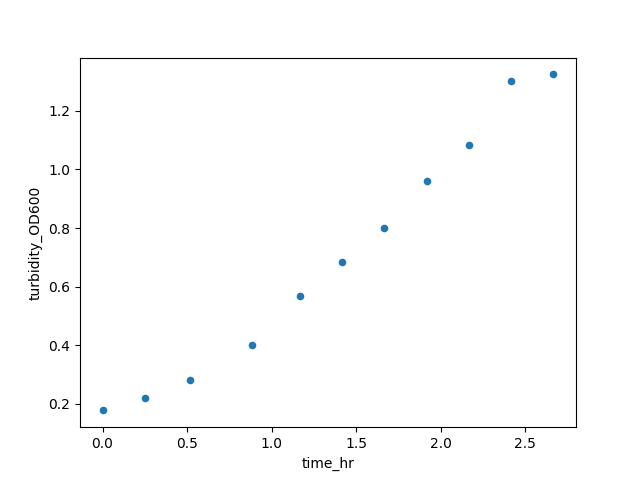
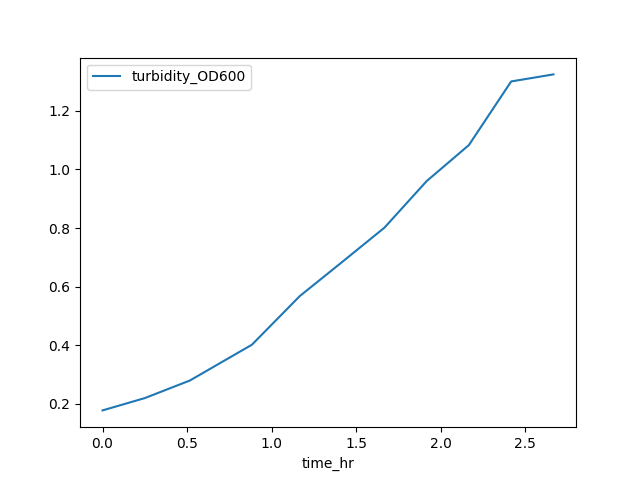
new files

diff --git a/day06/test_plot_growth.py b/day06/test_plot_growth.py
@@ -1,9 +1,20 @@
 import functions_plot_growth
 import pandas as pd
 
-#def test_read_data():
-#    assert functions_plot_growth.read_data('test_a.xlsx') == False
-#    assert isinstance(functions_plot_growth.read_data('test_b.xlsx'), pd.DataFrame) 
+def test_read_data():
+    #test using excel in the wrong tamplate:
+    assert functions_plot_growth.read_data('test_a.xlsx') == False
+    #test using excel in the correct tamplate:
+    assert isinstance(functions_plot_growth.read_data('test_b.xlsx'), pd.DataFrame) 
 
 def test_calculate_real_turbidity():
-    assert functions_plot_growth.calculate_real_turbidity('test_c.xlsx') == pd.read_excel('test_d.xlsx')
+    #test real turbidity calculation:
+    test_c = functions_plot_growth.calculate_real_turbidity(pd.read_excel('test_c.xlsx'))
+    test_d = pd.read_excel('test_d.xlsx')
+    assert test_c.equals(test_d)
+
+
+
+
+
+ 

diff --git a/day06/plot_growth.py b/day06/plot_growth.py
@@ -12,15 +12,9 @@ def main():
          
     turbidity_data = functions_plot_growth.calculate_real_turbidity(turbidity_data)
     
-    turbidity_data.plot.scatter(x='time_hr', y='turbidity_OD600')
+    turbidity_data.plot(x='time_hr', y='turbidity_OD600')
     plt.savefig('growth_plot.png')
     plt.show()
-
-    #print(functions_plot_growth.calculate_real_turbidity('test_c.xlsx'))
-    print(pd.read_excel('test_c.xlsx'))
-
-    #functions_plot_growth.calculate_real_turbidity('test_c.xlsx') == pd.read_excel('test_d.xlsx')
-
 
 if __name__ == "__main__":
     main()

diff --git a/day06/functions_plot_growth.py b/day06/functions_plot_growth.py
@@ -7,7 +7,6 @@ def read_data(x):
         print("make sure your file is in the correct tamplate")
         return False
     else:
-
         return turbidity_data
 
 def calculate_real_turbidity(turbidity_data):
